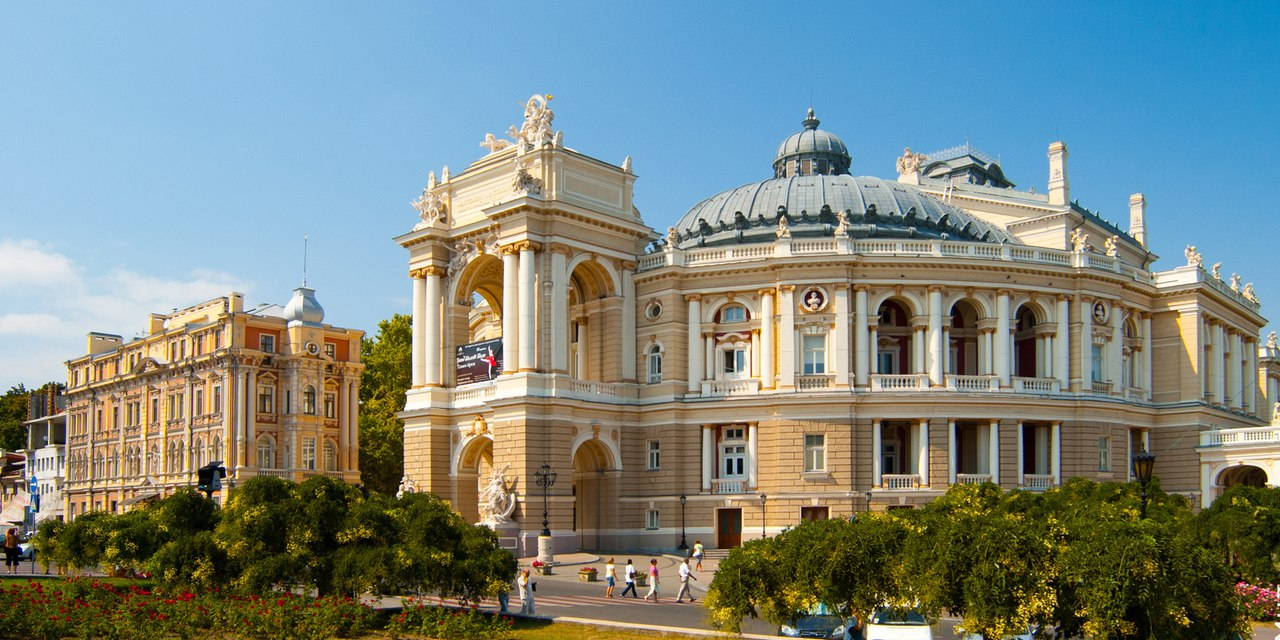
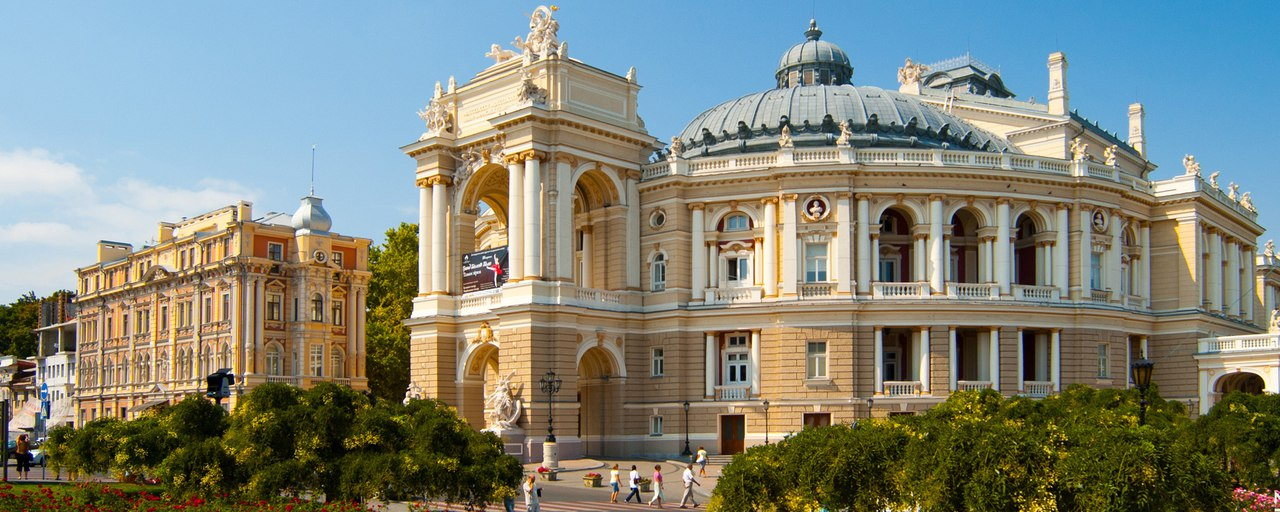
new photo

diff --git a/UBER PARTNER/build/css/style.css b/UBER PARTNER/build/css/style.css
@@ -1,1 +1,1 @@
-a,b,body,div,footer,form,header,html,iframe,img,li,p,section,span,ul{margin:0;padding:0;border:0;font-size:100%;font:inherit;vertical-align:baseline}footer,header,section{display:block}body{line-height:1}ul{list-style:none}html{font-size:16px;font-family:Open Sans,sans-serif}body{position:relative}.background-wrapper{position:absolute;background-image:url(../assets/img/taxi-fon.svg);background-repeat:repeat;z-index:-1;opacity:.2;width:100%;height:100%;top:0;left:0}section{padding:10px}p{font-size:1rem;text-align:justify;text-indent:1em;line-height:1.6;padding:10px 0}p span{color:#3d72a4;text-transform:uppercase;font-weight:700}.wrapper{margin:0 auto;max-width:1280px}.heading{max-width:90%;color:#0631af;font-family:Oswald,sans-serif;font-size:1.7rem;line-height:1.4;margin:0 auto;text-transform:uppercase;padding:10px 0}.button_container,.heading{text-align:center}.button{display:inline-block}.button a{box-sizing:border-box;display:block;text-transform:uppercase;padding:10px;font-size:1rem;text-align:center;text-decoration:none;-webkit-transition:all .6s ease;transition:all .6s ease}.button a:hover{cursor:pointer}.button_gold a{background-color:#6d87d6;color:#000}.button_gold a:hover{background-color:#000;color:#fff}input{box-sizing:border-box;height:40px;display:block;min-width:300px;max-width:500px;margin:10px auto;padding:0 20px;font-family:Open Sans,sans-serif;font-size:1rem;width:100%}input:active,input:focus{outline:none;border:2px solid #000}textarea{box-sizing:border-box;height:300px;display:block;min-width:300px;max-width:500px;margin:10px auto;resize:none;padding:20px;font-family:Open Sans,sans-serif;font-size:1rem;width:100%}textarea:active,textarea:focus{outline:none;border:2px solid #000}@media (min-width:480px){.heading{line-height:2.2}}.header_plug{height:48px;background-color:#fff}header{position:fixed;width:100%;z-index:1000}header .minified{display:-webkit-box;display:-ms-flexbox;display:flex;background-color:#f5f5f5}header .minified .logo_button{text-transform:uppercase;color:#3d72a4;font-size:3rem;font-weight:600}header .minified .menu_button{background-image:url(../assets/img/hamburgher_ico.svg);background-size:cover;height:48px;margin-left:auto;width:48px}header .minified .logo_button:hover,header .minified .menu_button:hover{cursor:pointer}header .maxified{position:absolute;left:0;top:48px;width:100%;height:0;overflow:hidden;-webkit-transition:all .6s ease;transition:all .6s ease;z-index:2000}header .maxified ul,header .maxified ul li{background-color:#fff}header .maxified ul li a{box-sizing:border-box;color:#000;display:block;height:100%;padding:15px;text-decoration:none;text-transform:uppercase;-webkit-transition:all .6s ease;transition:all .6s ease}header .maxified ul li a:hover{background-color:#3d72a4}header:hover .maxified{height:276px}@media (min-width:768px){header{display:-webkit-box;display:-ms-flexbox;display:flex;-ms-flex-wrap:nowrap;flex-wrap:nowrap;-webkit-box-pack:justify;-ms-flex-pack:justify;justify-content:space-between;background-color:#f5f5f5;width:100%;opacity:.6;-webkit-box-align:stretch;-ms-flex-align:stretch;align-items:stretch}header .minified{background:none}header .minified .menu_button{display:none}header .maxified{position:relative;margin:0 0 0 auto;top:auto;left:auto;height:auto;width:auto}header .maxified,header .maxified ul{display:-webkit-box;display:-ms-flexbox;display:flex}header .maxified ul{-ms-flex-wrap:nowrap;flex-wrap:nowrap;background:none;-webkit-box-align:stretch;-ms-flex-align:stretch;align-items:stretch}header .maxified ul li{background:none;height:100%}header .maxified ul li a{height:100%;display:-webkit-box;display:-ms-flexbox;display:flex;padding:0 10px;-webkit-box-pack:center;-ms-flex-pack:center;justify-content:center;-webkit-box-align:center;-ms-flex-align:center;align-items:center;-ms-flex-line-pack:center;align-content:center;font-size:.9rem;font-weight:700}header:hover{opacity:1}header:hover .maxified{height:auto}}.slider{padding:0;position:relative;z-index:100}.slider .slider_container{width:100%;position:relative;margin:0 auto}.slider .slider_container .slide{height:auto;padding-top:100vw;background-size:cover;position:relative}.slider .slider_container .slide .text_container{position:absolute;top:10%;width:100%;text-align:center}.slider .slider_container .slide p{display:inline-block;text-transform:uppercase;font-size:1.6rem;font-weight:700;color:#fff;text-align:center;text-shadow:1px 1px 2px #000;background-color:rgba(0,0,0,.4);text-indent:0;margin:0;line-height:1.2;padding:10px}.slider .slider_container .slide span{white-space:nowrap;color:#fff}.slider .slider_container .slide span.uber{color:#3d72a4}.slider .slider_container .slide .button_container{position:absolute;bottom:10%;width:100%}.slider .slider_container .slide .button_container .button a{border-radius:5px;border:1px solid #fff;padding:10px}.slider .slider_container .slide__1{background-image:url(../assets/img/slide_1_xs.jpg)}.slider .slider_container .slide__2{background-image:url(../assets/img/black-photo-xs.jpg)}.slider .slider_container .slide__3{background-image:url(../assets/img/odessa-3.jpg)}.slider .slider_container .slide__4{background-image:url(../assets/img/duk-xs.jpg)}@media (min-width:480px){.slider .slider_container .slide{height:auto;padding-top:60vw}.slider .slider_container .slide p{font-size:2.2rem}.slider .slider_container .slide__1{background-image:url(../assets/img/slide_1_sm.jpg)}.slider .slider_container .slide__2{background-image:url(../assets/img/black-photo-sm.jpg)}.slider .slider_container .slide__4{background-image:url(../assets/img/duk-sm.jpg)}}@media (min-width:768px){.slider .slider_container .slide{height:auto;padding-top:56.25vw;position:relative}.slider .slider_container .slide p{font-size:2.6rem;text-align:center;top:15%;left:0;text-indent:0}.slider .slider_container .slide p.connect{line-height:1.4;font-size:3rem}.slider .slider_container .slide .button_container .button a{border-radius:5px;border:1px solid #fff;font-weight:700;padding:15px}.slider .slider_container .slide__1{background-image:url(../assets/img/slide_1_md.jpg)}.slider .slider_container .slide__2{background-image:url(../assets/img/black-photo-md.jpg)}.slider .slider_container .slide__4{background-image:url(../assets/img/duk-md.jpg)}}@media (min-width:992px){.slider .slider_container .slide{height:auto;padding-top:50vw}.slider .slider_container .slide p,.slider .slider_container .slide p.connect{font-size:3.5rem}.slider .slider_container .slide__1{background-image:url(../assets/img/slide_1.jpg)}.slider .slider_container .slide__2{background-image:url(../assets/img/black-photo.jpg)}.slider .slider_container .slide__4{background-image:url(../assets/img/odessa4.jpg)}}.promo{border-bottom:2px solid #000;overflow:hidden}.promo b{font-weight:700}.promo img{width:100%;box-shadow:5px 5px 5px 0 rgba(0,0,0,.75);border-radius:5px}.promo .uber_1,.promo .uber_2{width:100%;margin:10px auto 0}@media (min-width:550px){.promo .uber_1,.promo .uber_2{float:left;width:350px;margin:10px 20px 0 0}}@media (min-width:970px){.promo{padding-bottom:40px}.promo .flex_container_2{display:-webkit-box;display:-ms-flexbox;display:flex;-ms-flex-pack:distribute;justify-content:space-around}.promo .uber_2{float:none;-ms-flex-negative:0;flex-shrink:0;margin-top:0}}@media (min-width:1080px){.promo .flex_container_1{display:-webkit-box;display:-ms-flexbox;display:flex;-ms-flex-pack:distribute;justify-content:space-around}.promo .uber_1{float:none;-ms-flex-negative:0;flex-shrink:0;margin-top:0}}.our_advantages{background-color:#f5f5f5;border-bottom:2px solid #000}.our_advantages .advantages_container{display:-webkit-box;display:-ms-flexbox;display:flex;-ms-flex-pack:distribute;justify-content:space-around;-ms-flex-wrap:wrap;flex-wrap:wrap;margin:10px 0}.our_advantages .advanages_container__item{border:3px solid #000;margin:10px 5px;padding:5px;box-sizing:border-box;width:230px;border-radius:10px;box-shadow:3px 3px 10px 0 rgba(0,0,0,.75),-3px -1px 5px 0 rgba(0,0,0,.75)}.our_advantages .advanages_container__item .advanages_container__item__image{padding-top:100%;background-color:bisque;background-color:#fff;display:-webkit-box;display:-ms-flexbox;display:flex;-webkit-box-pack:center;-ms-flex-pack:center;justify-content:center;-webkit-box-align:center;-ms-flex-align:center;align-items:center;position:relative;border-radius:10px;border:3px solid #000}.our_advantages .advanages_container__item .advanages_container__item__image .image{position:absolute;top:10%;left:10%;background-size:cover;width:80%;height:80%}.our_advantages .advanages_container__item .advanages_container__item__image .registration{background-image:url(../assets/img/documents.svg)}.our_advantages .advanages_container__item .advanages_container__item__image .cashless{background-image:url(../assets/img/credit_card.svg)}.our_advantages .advanages_container__item .advanages_container__item__image .time{background-image:url(../assets/img/time.svg)}.our_advantages .advanages_container__item .advanages_container__item__image .percent{background-image:url(../assets/img/percent.svg)}.our_advantages .advanages_container__item .advanages_container__item__image .fuel{background-image:url(../assets/img/fuel.svg);top:0;left:0;width:100%;height:100%}.our_advantages .advanages_container__item .advanages_container__item__image .uniqa{background-image:url(../assets/img/uniqa.svg)}.our_advantages .advanages_container__item .uniqa_container~p{text-align:left;text-indent:0}.our_advantages .advanages_container__item .advanages_container__item__heading{color:#0631af;font-weight:700;text-align:center;text-transform:uppercase;padding:10px 0}.our_advantages .advanages_container__item p{color:#000;padding:5px}@media (min-width:550px){.our_advantages .advanages_container__item .advanages_container__item__image{margin:20px auto 10px;width:80%;padding-top:80%}}@media (min-width:880px){.our_advantages .advanages_container__item{width:30%;max-width:280px}.our_advantages .advanages_container__item .advanages_container__item__image{width:60%;padding-top:60%}}@media (min-width:1130px){.our_advantages .advanages_container__item{margin:5px 20px}}.video{border-bottom:2px solid #000}.video .video_container{position:relative;padding-top:calc((100% - 20px) * .5625);margin:10px;width:calc(100% - 20px)}.video .video_container iframe{width:100%;height:100%;position:absolute;top:0;left:0}.requirements{background-color:#f5f5f5;border-bottom:1px solid transparent;padding:10px}.requirements .heading{color:#000}.requirements .heading span{color:#0631af}.requirements p{color:#000;max-width:800px;margin:0 auto}.requirements .button_container{margin:20px 0}.requirements .button_gold a{text-decoration:none;text-align:center;background-color:#6d87d6;background-image:-webkit-linear-gradient(top,#6d87d6,#2533cf);background-image:-ms-linear-gradient(top,#6d87d6 0,#2533cf 100%);filter:progid:DXImageTransform.Microsoft.gradient(startColorstr="#2533cf",endColorstr="#2533cf",GradientType=0);background-image:linear-gradient(top,#6d87d6,#2533cf)}.requirements .button_gold a,.requirements .button_gold a:hover{padding:11px 32px;border:3px solid #040072;border-radius:6px;font:13px Georgia,Times New Roman,Times,serif;font-weight:700;color:#fff;box-shadow:0 0 2px #bababa,inset 0 0 1px #fff}.requirements .button_gold a:hover{background-color:#2533cf;background-image:-webkit-linear-gradient(top,#2533cf,#6d87d6);background-image:-ms-linear-gradient(top,#2533cf 0,#6d87d6 100%);filter:progid:DXImageTransform.Microsoft.gradient(startColorstr="#6d87d6",endColorstr="#6d87d6",GradientType=0);background-image:linear-gradient(top,#2533cf,#6d87d6)}.requirements .button_gold a:active{padding:11px 32px;border:4px solid #040072;border-radius:6px;font:13px Georgia,Times New Roman,Times,serif;font-weight:700;color:#fff;background:#2533cf;box-shadow:0 0 2px #bababa,inset 0 0 1px #fff;text-shadow:0 3px 0 #bababa;-webkit-filter:dropshadow(color=#bababa,offx=0,offy=3);filter:dropshadow(color=#bababa,offx=0,offy=3)}.requirements ul{list-style:disc outside;padding-left:15px;max-width:800px;margin:0 auto}.requirements ul li{color:#3d72a4}.requirements ul li p{padding:5px 0;text-indent:0;max-width:none}.easy{border-bottom:2px solid #000;border-top:2px solid #000}.easy .easy_container{display:-webkit-box;display:-ms-flexbox;display:flex;-ms-flex-pack:distribute;justify-content:space-around;-ms-flex-wrap:wrap;flex-wrap:wrap;margin:10px 0}.easy .easy_container .easy_container__item{background-color:#fff;max-width:320px;padding:20px;margin:10px;border:3px solid #000;border-radius:15px}.easy .easy_container .easy_container__item__image{width:60%;padding-top:60%;margin:0 auto;position:relative;border:3px solid #000;border-radius:15px;box-sizing:border-box}.easy .easy_container .easy_container__item__heading{color:#3d72a4;font-size:1.2rem;text-transform:uppercase;padding:10px 0;text-align:center;font-weight:700}.easy .easy_container .meeting{background-image:url(../assets/img/meeting.svg);background-size:cover;height:80%;width:80%;top:10%;left:10%;position:absolute}.easy .easy_container .form{background-image:url(../assets/img/form.svg);background-size:cover;height:100%;width:100%;top:0;left:0;position:absolute}.easy .easy_container .mail{background-image:url(../assets/img/mail.svg);background-size:cover;height:80%;width:80%;top:10%;left:10%;position:absolute}.easy .easy_container p{color:#000;min-height:90px;text-align:left}.easy .easy_container .button_container{margin:10px 0}.easy .easy_container .button_gold a{text-decoration:none;text-align:center;padding:7px 10px;border:3px solid #000969;border-radius:10px;font:14px Arial,Helvetica,sans-serif;font-weight:700;color:#fff;background-color:#6d87d6;background-image:-webkit-linear-gradient(top,#6d87d6,#192aa5);background-image:-ms-linear-gradient(top,#6d87d6 0,#192aa5 100%);filter:progid:DXImageTransform.Microsoft.gradient(startColorstr="#192aa5",endColorstr="#192aa5",GradientType=0);background-image:linear-gradient(top,#6d87d6,#192aa5);box-shadow:0 0 2px #bababa;text-shadow:0 0 2px #bababa;-webkit-filter:dropshadow(color=#bababa,offx=0,offy=0);filter:dropshadow(color=#bababa,offx=0,offy=0)}@media (min-width:480px){.easy .easy_container .easy_container__item{margin:10px 50px}.easy .easy_container .easy_container__item .easy_container__item__image{width:80%;padding-top:80%}}@media (min-width:865px){.easy .easy_container .easy_container__item{margin:5px;width:28%;min-width:250px;box-sizing:border-box}.easy .easy_container .easy_container__item .easy_container__item__image{width:70%;padding-top:70%}}.queue{border-bottom:2px solid #000;background-color:#f5f5f5}.queue .button_gold a{text-decoration:none;text-align:center;border:3px solid #004f72;border-radius:10px;background-color:#6d87d6;background-image:-webkit-linear-gradient(top,#6d87d6,#3053ff);background-image:-ms-linear-gradient(top,#6d87d6 0,#3053ff 100%);filter:progid:DXImageTransform.Microsoft.gradient(startColorstr="#3053ff",endColorstr="#3053ff",GradientType=0);background-image:linear-gradient(top,#6d87d6,#3053ff)}.queue .button_gold:hover a,.queue .button_gold a{padding:11px 32px;font:12px Arial,Helvetica,sans-serif;font-weight:700;color:#fff;box-shadow:0 0 2px #bababa,inset 0 0 1px #fff}.queue .button_gold:hover a{border:3px solid #005072;border-radius:10px;background-color:#3053ff;background-image:-webkit-linear-gradient(top,#3053ff,#6d87d6);background-image:-ms-linear-gradient(top,#3053ff 0,#6d87d6 100%);filter:progid:DXImageTransform.Microsoft.gradient(startColorstr="#6d87d6",endColorstr="#6d87d6",GradientType=0);background-image:linear-gradient(top,#3053ff,#6d87d6)}.queue .button_gold:active a{padding:11px 32px;border:3px solid #005072;border-radius:10px;font:14px Arial,Helvetica,sans-serif;font-weight:700;color:#fff;background-color:#2a54d1;background-image:-webkit-linear-gradient(top,#2a54d1,#001eb3);background-image:-ms-linear-gradient(top,#2a54d1 0,#001eb3 100%);filter:progid:DXImageTransform.Microsoft.gradient(startColorstr="#001eb3",endColorstr="#001eb3",GradientType=0);background-image:linear-gradient(top,#2a54d1,#001eb3);box-shadow:0 0 2px #bababa,inset 0 0 1px #fff}.faq{background-color:transparent;border-bottom:2px solid #000}.faq .questions_container{display:-webkit-box;display:-ms-flexbox;display:flex;-ms-flex-pack:distribute;justify-content:space-around;-ms-flex-wrap:wrap;flex-wrap:wrap;margin:10px 0}.faq .questions_container .question{width:30%;min-width:280px;margin:10px;border:1px solid #000;background-color:#fff}.faq .questions_container .question .question_header{padding:10px;display:-webkit-box;display:-ms-flexbox;display:flex;-webkit-box-align:center;-ms-flex-align:center;align-items:center;background-color:#000;color:#fff}.faq .questions_container .question .question_header p{text-align:center}.faq .questions_container .question .question_body{padding:10px;display:-webkit-box;display:-ms-flexbox;display:flex;-webkit-box-align:center;-ms-flex-align:center;align-items:center}.download{border-bottom:2px solid #000}.download .download_button_container{margin:20px auto;display:-webkit-box;display:-ms-flexbox;display:flex;-ms-flex-pack:distribute;justify-content:space-around}.download .download_button_container .download_button_container__item{width:30%;min-width:150px;margin:0 5px}.download .download_button_container .download_button_container__item .image{width:100%;padding-top:32.6%;position:relative}.download .download_button_container .download_button_container__item .image .android{position:absolute;top:0;left:0;width:100%;height:100%;background-image:url(../assets/img/google_play_badge.svg);background-size:cover}.download .download_button_container .download_button_container__item .image .iphone{position:absolute;top:0;left:0;width:100%;height:100%;background-image:url(../assets/img/app_store_badge.svg);background-size:cover}.address{background-color:#fff;padding-bottom:25px}.address .small_heading{text-align:center;padding-top:0;text-indent:0;font-size:.9rem}.address .small_heading b{font-weight:700}.address .map{width:100%;height:80vh}@media (min-width:360px){.address .small_heading{font-size:1rem}}@media (min-width:420px){.address .small_heading{font-size:1.2rem}}@media (min-width:480px){.address .small_heading{font-size:1.2rem}}@media (min-width:768px){.address .map{height:60vh}}footer{background-color:#3d72a4}footer .footer_container{display:-webkit-box;display:-ms-flexbox;display:flex;-webkit-box-orient:vertical;-webkit-box-direction:normal;-ms-flex-direction:column;flex-direction:column;padding:10px}footer .footer_container .contacts_container{width:100%}footer .footer_container .contacts_container .heading{color:#000}footer .footer_container .contacts{min-width:300px;max-width:500px;width:100%;margin:0 auto}footer .footer_container .contacts li{margin:10px 0}footer .footer_container .contacts li a{display:-webkit-box;display:-ms-flexbox;display:flex;-webkit-box-pack:start;-ms-flex-pack:start;justify-content:flex-start;-webkit-box-align:center;-ms-flex-align:center;align-items:center;text-decoration:none}footer .footer_container .contacts li a .image{height:30px;width:30px;background-image:url(../assets/img/skype.svg);background-size:cover}footer .footer_container .contacts li a p{color:#000;padding:0 0 0 1em;text-indent:0}footer .footer_container .contacts li a:hover{cursor:pointer}footer .footer_container .contacts li a:hover p{color:#fff}footer .footer_container .queue_form{width:100%}footer .footer_container .queue_form .heading{color:#000}footer .footer_container .queue_form .button_gold a{text-decoration:none;text-align:center;padding:7px 10px;border:3px solid #000969;border-radius:10px;font:14px Arial,Helvetica,sans-serif;font-weight:700;color:#fff;background-color:#6d87d6;background-image:-webkit-linear-gradient(top,#6d87d6,#192aa5);background-image:-ms-linear-gradient(top,#6d87d6 0,#192aa5 100%);filter:progid:DXImageTransform.Microsoft.gradient(startColorstr="#192aa5",endColorstr="#192aa5",GradientType=0);background-image:linear-gradient(top,#6d87d6,#192aa5);box-shadow:0 0 2px #bababa;text-shadow:0 0 2px #bababa;-webkit-filter:dropshadow(color=#bababa,offx=0,offy=0);filter:dropshadow(color=#bababa,offx=0,offy=0)}@media (min-width:768px){footer .footer_container{-webkit-box-orient:horizontal;-webkit-box-direction:normal;-ms-flex-direction:row;flex-direction:row;-ms-flex-pack:distribute;justify-content:space-around}}
+a,b,body,div,footer,form,header,html,iframe,img,li,p,section,span,ul{margin:0;padding:0;border:0;font-size:100%;font:inherit;vertical-align:baseline}footer,header,section{display:block}body{line-height:1}ul{list-style:none}html{font-size:16px;font-family:Open Sans,sans-serif}body{position:relative}.background-wrapper{position:absolute;background-image:url(../assets/img/taxi-fon.svg);background-repeat:repeat;z-index:-1;opacity:.2;width:100%;height:100%;top:0;left:0}section{padding:10px}p{font-size:1rem;text-align:justify;text-indent:1em;line-height:1.6;padding:10px 0}p span{color:#3d72a4;text-transform:uppercase;font-weight:700}.wrapper{margin:0 auto;max-width:1280px}.heading{max-width:90%;color:#0631af;font-family:Oswald,sans-serif;font-size:1.7rem;line-height:1.4;margin:0 auto;text-transform:uppercase;padding:10px 0}.button_container,.heading{text-align:center}.button{display:inline-block}.button a{box-sizing:border-box;display:block;text-transform:uppercase;padding:10px;font-size:1rem;text-align:center;text-decoration:none;-webkit-transition:all .6s ease;transition:all .6s ease}.button a:hover{cursor:pointer}.button_gold a{background-color:#6d87d6;color:#000}.button_gold a:hover{background-color:#000;color:#fff}input{box-sizing:border-box;height:40px;display:block;min-width:300px;max-width:500px;margin:10px auto;padding:0 20px;font-family:Open Sans,sans-serif;font-size:1rem;width:100%}input:active,input:focus{outline:none;border:2px solid #000}textarea{box-sizing:border-box;height:300px;display:block;min-width:300px;max-width:500px;margin:10px auto;resize:none;padding:20px;font-family:Open Sans,sans-serif;font-size:1rem;width:100%}textarea:active,textarea:focus{outline:none;border:2px solid #000}@media (min-width:480px){.heading{line-height:2.2}}.header_plug{height:48px;background-color:#fff}header{position:fixed;width:100%;z-index:1000}header .minified{display:-webkit-box;display:-ms-flexbox;display:flex;background-color:#f5f5f5}header .minified .logo_button{text-transform:uppercase;color:#3d72a4;font-size:3rem;font-weight:600}header .minified .menu_button{background-image:url(../assets/img/hamburgher_ico.svg);background-size:cover;height:48px;margin-left:auto;width:48px}header .minified .logo_button:hover,header .minified .menu_button:hover{cursor:pointer}header .maxified{position:absolute;left:0;top:48px;width:100%;height:0;overflow:hidden;-webkit-transition:all .6s ease;transition:all .6s ease;z-index:2000}header .maxified ul,header .maxified ul li{background-color:#fff}header .maxified ul li a{box-sizing:border-box;color:#000;display:block;height:100%;padding:15px;text-decoration:none;text-transform:uppercase;-webkit-transition:all .6s ease;transition:all .6s ease}header .maxified ul li a:hover{background-color:#3d72a4}header:hover .maxified{height:276px}@media (min-width:768px){header{display:-webkit-box;display:-ms-flexbox;display:flex;-ms-flex-wrap:nowrap;flex-wrap:nowrap;-webkit-box-pack:justify;-ms-flex-pack:justify;justify-content:space-between;background-color:#f5f5f5;width:100%;opacity:.6;-webkit-box-align:stretch;-ms-flex-align:stretch;align-items:stretch}header .minified{background:none}header .minified .menu_button{display:none}header .maxified{position:relative;margin:0 0 0 auto;top:auto;left:auto;height:auto;width:auto}header .maxified,header .maxified ul{display:-webkit-box;display:-ms-flexbox;display:flex}header .maxified ul{-ms-flex-wrap:nowrap;flex-wrap:nowrap;background:none;-webkit-box-align:stretch;-ms-flex-align:stretch;align-items:stretch}header .maxified ul li{background:none;height:100%}header .maxified ul li a{height:100%;display:-webkit-box;display:-ms-flexbox;display:flex;padding:0 10px;-webkit-box-pack:center;-ms-flex-pack:center;justify-content:center;-webkit-box-align:center;-ms-flex-align:center;align-items:center;-ms-flex-line-pack:center;align-content:center;font-size:.9rem;font-weight:700}header:hover{opacity:1}header:hover .maxified{height:auto}}.slider{padding:0;position:relative;z-index:100}.slider .slider_container{width:100%;position:relative;margin:0 auto}.slider .slider_container .slide{height:auto;padding-top:100vw;background-size:cover;position:relative}.slider .slider_container .slide .text_container{position:absolute;top:10%;width:100%;text-align:center}.slider .slider_container .slide p{display:inline-block;text-transform:uppercase;font-size:1.6rem;font-weight:700;color:#fff;text-align:center;text-shadow:1px 1px 2px #000;background-color:rgba(0,0,0,.4);text-indent:0;margin:0;line-height:1.2;padding:10px}.slider .slider_container .slide span{white-space:nowrap;color:#fff}.slider .slider_container .slide span.uber{color:#3d72a4}.slider .slider_container .slide .button_container{position:absolute;bottom:10%;width:100%}.slider .slider_container .slide .button_container .button a{border-radius:5px;border:1px solid #fff;padding:10px}.slider .slider_container .slide__1{background-image:url(../assets/img/slide_1_xs.jpg)}.slider .slider_container .slide__2{background-image:url(../assets/img/black-photo-xs.jpg)}.slider .slider_container .slide__3{background-image:url(../assets/img/odessa-3.jpg)}.slider .slider_container .slide__4{background-image:url(../assets/img/duk-xs.jpg)}@media (min-width:480px){.slider .slider_container .slide{height:auto;padding-top:60vw}.slider .slider_container .slide p{font-size:2.2rem}.slider .slider_container .slide__1{background-image:url(../assets/img/slide_1_sm.jpg)}.slider .slider_container .slide__2{background-image:url(../assets/img/black-photo-sm.jpg)}.slider .slider_container .slide__4{background-image:url(../assets/img/duk-sm.jpg)}}@media (min-width:768px){.slider .slider_container .slide{height:auto;padding-top:56.25vw;position:relative}.slider .slider_container .slide p{font-size:2.6rem;text-align:center;top:15%;left:0;text-indent:0}.slider .slider_container .slide p.connect{line-height:1.4;font-size:3rem}.slider .slider_container .slide .button_container .button a{border-radius:5px;border:1px solid #fff;font-weight:700;padding:15px}.slider .slider_container .slide__1{background-image:url(../assets/img/slide_1_md.jpg)}.slider .slider_container .slide__2{background-image:url(../assets/img/black-photo-md.jpg)}.slider .slider_container .slide__4{background-image:url(../assets/img/duk-md.jpg)}}@media (min-width:992px){.slider .slider_container .slide{height:auto;padding-top:40vw}.slider .slider_container .slide p,.slider .slider_container .slide p.connect{font-size:3.5rem}.slider .slider_container .slide__1{background-image:url(../assets/img/slide_1.jpg)}.slider .slider_container .slide__2{background-image:url(../assets/img/black-photo.jpg)}.slider .slider_container .slide__4{background-image:url(../assets/img/odessa4.jpg)}}.promo{border-bottom:2px solid #000;overflow:hidden}.promo b{font-weight:700}.promo img{width:100%;box-shadow:5px 5px 5px 0 rgba(0,0,0,.75);border-radius:5px}.promo .uber_1,.promo .uber_2{width:100%;margin:10px auto 0}@media (min-width:550px){.promo .uber_1,.promo .uber_2{float:left;width:350px;margin:10px 20px 0 0}}@media (min-width:970px){.promo{padding-bottom:40px}.promo .flex_container_2{display:-webkit-box;display:-ms-flexbox;display:flex;-ms-flex-pack:distribute;justify-content:space-around}.promo .uber_2{float:none;-ms-flex-negative:0;flex-shrink:0;margin-top:0}}@media (min-width:1080px){.promo .flex_container_1{display:-webkit-box;display:-ms-flexbox;display:flex;-ms-flex-pack:distribute;justify-content:space-around}.promo .uber_1{float:none;-ms-flex-negative:0;flex-shrink:0;margin-top:0}}.our_advantages{background-color:#f5f5f5;border-bottom:2px solid #000}.our_advantages .advantages_container{display:-webkit-box;display:-ms-flexbox;display:flex;-ms-flex-pack:distribute;justify-content:space-around;-ms-flex-wrap:wrap;flex-wrap:wrap;margin:10px 0}.our_advantages .advanages_container__item{border:3px solid #000;margin:10px 5px;padding:5px;box-sizing:border-box;width:230px;border-radius:10px;box-shadow:3px 3px 10px 0 rgba(0,0,0,.75),-3px -1px 5px 0 rgba(0,0,0,.75)}.our_advantages .advanages_container__item .advanages_container__item__image{padding-top:100%;background-color:bisque;background-color:#fff;display:-webkit-box;display:-ms-flexbox;display:flex;-webkit-box-pack:center;-ms-flex-pack:center;justify-content:center;-webkit-box-align:center;-ms-flex-align:center;align-items:center;position:relative;border-radius:10px;border:3px solid #000}.our_advantages .advanages_container__item .advanages_container__item__image .image{position:absolute;top:10%;left:10%;background-size:cover;width:80%;height:80%}.our_advantages .advanages_container__item .advanages_container__item__image .registration{background-image:url(../assets/img/documents.svg)}.our_advantages .advanages_container__item .advanages_container__item__image .cashless{background-image:url(../assets/img/credit_card.svg)}.our_advantages .advanages_container__item .advanages_container__item__image .time{background-image:url(../assets/img/time.svg)}.our_advantages .advanages_container__item .advanages_container__item__image .percent{background-image:url(../assets/img/percent.svg)}.our_advantages .advanages_container__item .advanages_container__item__image .fuel{background-image:url(../assets/img/fuel.svg);top:0;left:0;width:100%;height:100%}.our_advantages .advanages_container__item .advanages_container__item__image .uniqa{background-image:url(../assets/img/uniqa.svg)}.our_advantages .advanages_container__item .uniqa_container~p{text-align:left;text-indent:0}.our_advantages .advanages_container__item .advanages_container__item__heading{color:#0631af;font-weight:700;text-align:center;text-transform:uppercase;padding:10px 0}.our_advantages .advanages_container__item p{color:#000;padding:5px}@media (min-width:550px){.our_advantages .advanages_container__item .advanages_container__item__image{margin:20px auto 10px;width:80%;padding-top:80%}}@media (min-width:880px){.our_advantages .advanages_container__item{width:30%;max-width:280px}.our_advantages .advanages_container__item .advanages_container__item__image{width:60%;padding-top:60%}}@media (min-width:1130px){.our_advantages .advanages_container__item{margin:5px 20px}}.video{border-bottom:2px solid #000}.video .video_container{position:relative;padding-top:calc((100% - 20px) * .5625);margin:10px;width:calc(100% - 20px)}.video .video_container iframe{width:100%;height:100%;position:absolute;top:0;left:0}.requirements{background-color:#f5f5f5;border-bottom:1px solid transparent;padding:10px}.requirements .heading{color:#000}.requirements .heading span{color:#0631af}.requirements p{color:#000;max-width:800px;margin:0 auto}.requirements .button_container{margin:20px 0}.requirements .button_gold a{text-decoration:none;text-align:center;background-color:#6d87d6;background-image:-webkit-linear-gradient(top,#6d87d6,#2533cf);background-image:-ms-linear-gradient(top,#6d87d6 0,#2533cf 100%);filter:progid:DXImageTransform.Microsoft.gradient(startColorstr="#2533cf",endColorstr="#2533cf",GradientType=0);background-image:linear-gradient(top,#6d87d6,#2533cf)}.requirements .button_gold a,.requirements .button_gold a:hover{padding:11px 32px;border:3px solid #040072;border-radius:6px;font:13px Georgia,Times New Roman,Times,serif;font-weight:700;color:#fff;box-shadow:0 0 2px #bababa,inset 0 0 1px #fff}.requirements .button_gold a:hover{background-color:#2533cf;background-image:-webkit-linear-gradient(top,#2533cf,#6d87d6);background-image:-ms-linear-gradient(top,#2533cf 0,#6d87d6 100%);filter:progid:DXImageTransform.Microsoft.gradient(startColorstr="#6d87d6",endColorstr="#6d87d6",GradientType=0);background-image:linear-gradient(top,#2533cf,#6d87d6)}.requirements .button_gold a:active{padding:11px 32px;border:4px solid #040072;border-radius:6px;font:13px Georgia,Times New Roman,Times,serif;font-weight:700;color:#fff;background:#2533cf;box-shadow:0 0 2px #bababa,inset 0 0 1px #fff;text-shadow:0 3px 0 #bababa;-webkit-filter:dropshadow(color=#bababa,offx=0,offy=3);filter:dropshadow(color=#bababa,offx=0,offy=3)}.requirements ul{list-style:disc outside;padding-left:15px;max-width:800px;margin:0 auto}.requirements ul li{color:#3d72a4}.requirements ul li p{padding:5px 0;text-indent:0;max-width:none}.easy{border-bottom:2px solid #000;border-top:2px solid #000}.easy .easy_container{display:-webkit-box;display:-ms-flexbox;display:flex;-ms-flex-pack:distribute;justify-content:space-around;-ms-flex-wrap:wrap;flex-wrap:wrap;margin:10px 0}.easy .easy_container .easy_container__item{background-color:#fff;max-width:320px;padding:20px;margin:10px;border:3px solid #000;border-radius:15px}.easy .easy_container .easy_container__item__image{width:60%;padding-top:60%;margin:0 auto;position:relative;border:3px solid #000;border-radius:15px;box-sizing:border-box}.easy .easy_container .easy_container__item__heading{color:#3d72a4;font-size:1.2rem;text-transform:uppercase;padding:10px 0;text-align:center;font-weight:700}.easy .easy_container .meeting{background-image:url(../assets/img/meeting.svg);background-size:cover;height:80%;width:80%;top:10%;left:10%;position:absolute}.easy .easy_container .form{background-image:url(../assets/img/form.svg);background-size:cover;height:100%;width:100%;top:0;left:0;position:absolute}.easy .easy_container .mail{background-image:url(../assets/img/mail.svg);background-size:cover;height:80%;width:80%;top:10%;left:10%;position:absolute}.easy .easy_container p{color:#000;min-height:90px;text-align:left}.easy .easy_container .button_container{margin:10px 0}.easy .easy_container .button_gold a{text-decoration:none;text-align:center;padding:7px 10px;border:3px solid #000969;border-radius:10px;font:14px Arial,Helvetica,sans-serif;font-weight:700;color:#fff;background-color:#6d87d6;background-image:-webkit-linear-gradient(top,#6d87d6,#192aa5);background-image:-ms-linear-gradient(top,#6d87d6 0,#192aa5 100%);filter:progid:DXImageTransform.Microsoft.gradient(startColorstr="#192aa5",endColorstr="#192aa5",GradientType=0);background-image:linear-gradient(top,#6d87d6,#192aa5);box-shadow:0 0 2px #bababa;text-shadow:0 0 2px #bababa;-webkit-filter:dropshadow(color=#bababa,offx=0,offy=0);filter:dropshadow(color=#bababa,offx=0,offy=0)}@media (min-width:480px){.easy .easy_container .easy_container__item{margin:10px 50px}.easy .easy_container .easy_container__item .easy_container__item__image{width:80%;padding-top:80%}}@media (min-width:865px){.easy .easy_container .easy_container__item{margin:5px;width:28%;min-width:250px;box-sizing:border-box}.easy .easy_container .easy_container__item .easy_container__item__image{width:70%;padding-top:70%}}.queue{border-bottom:2px solid #000;background-color:#f5f5f5}.queue .button_gold a{text-decoration:none;text-align:center;border:3px solid #004f72;border-radius:10px;background-color:#6d87d6;background-image:-webkit-linear-gradient(top,#6d87d6,#3053ff);background-image:-ms-linear-gradient(top,#6d87d6 0,#3053ff 100%);filter:progid:DXImageTransform.Microsoft.gradient(startColorstr="#3053ff",endColorstr="#3053ff",GradientType=0);background-image:linear-gradient(top,#6d87d6,#3053ff)}.queue .button_gold:hover a,.queue .button_gold a{padding:11px 32px;font:12px Arial,Helvetica,sans-serif;font-weight:700;color:#fff;box-shadow:0 0 2px #bababa,inset 0 0 1px #fff}.queue .button_gold:hover a{border:3px solid #005072;border-radius:10px;background-color:#3053ff;background-image:-webkit-linear-gradient(top,#3053ff,#6d87d6);background-image:-ms-linear-gradient(top,#3053ff 0,#6d87d6 100%);filter:progid:DXImageTransform.Microsoft.gradient(startColorstr="#6d87d6",endColorstr="#6d87d6",GradientType=0);background-image:linear-gradient(top,#3053ff,#6d87d6)}.queue .button_gold:active a{padding:11px 32px;border:3px solid #005072;border-radius:10px;font:14px Arial,Helvetica,sans-serif;font-weight:700;color:#fff;background-color:#2a54d1;background-image:-webkit-linear-gradient(top,#2a54d1,#001eb3);background-image:-ms-linear-gradient(top,#2a54d1 0,#001eb3 100%);filter:progid:DXImageTransform.Microsoft.gradient(startColorstr="#001eb3",endColorstr="#001eb3",GradientType=0);background-image:linear-gradient(top,#2a54d1,#001eb3);box-shadow:0 0 2px #bababa,inset 0 0 1px #fff}.faq{background-color:transparent;border-bottom:2px solid #000}.faq .questions_container{display:-webkit-box;display:-ms-flexbox;display:flex;-ms-flex-pack:distribute;justify-content:space-around;-ms-flex-wrap:wrap;flex-wrap:wrap;margin:10px 0}.faq .questions_container .question{width:30%;min-width:280px;margin:10px;border:1px solid #000;background-color:#fff}.faq .questions_container .question .question_header{padding:10px;display:-webkit-box;display:-ms-flexbox;display:flex;-webkit-box-align:center;-ms-flex-align:center;align-items:center;background-color:#000;color:#fff}.faq .questions_container .question .question_header p{text-align:center}.faq .questions_container .question .question_body{padding:10px;display:-webkit-box;display:-ms-flexbox;display:flex;-webkit-box-align:center;-ms-flex-align:center;align-items:center}.download{border-bottom:2px solid #000}.download .download_button_container{margin:20px auto;display:-webkit-box;display:-ms-flexbox;display:flex;-ms-flex-pack:distribute;justify-content:space-around}.download .download_button_container .download_button_container__item{width:30%;min-width:150px;margin:0 5px}.download .download_button_container .download_button_container__item .image{width:100%;padding-top:32.6%;position:relative}.download .download_button_container .download_button_container__item .image .android{position:absolute;top:0;left:0;width:100%;height:100%;background-image:url(../assets/img/google_play_badge.svg);background-size:cover}.download .download_button_container .download_button_container__item .image .iphone{position:absolute;top:0;left:0;width:100%;height:100%;background-image:url(../assets/img/app_store_badge.svg);background-size:cover}.address{background-color:#fff;padding-bottom:25px}.address .small_heading{text-align:center;padding-top:0;text-indent:0;font-size:.9rem}.address .small_heading b{font-weight:700}.address .map{width:100%;height:80vh}@media (min-width:360px){.address .small_heading{font-size:1rem}}@media (min-width:420px){.address .small_heading{font-size:1.2rem}}@media (min-width:480px){.address .small_heading{font-size:1.2rem}}@media (min-width:768px){.address .map{height:60vh}}footer{background-color:#3d72a4}footer .footer_container{display:-webkit-box;display:-ms-flexbox;display:flex;-webkit-box-orient:vertical;-webkit-box-direction:normal;-ms-flex-direction:column;flex-direction:column;padding:10px}footer .footer_container .contacts_container{width:100%}footer .footer_container .contacts_container .heading{color:#000}footer .footer_container .contacts{min-width:300px;max-width:500px;width:100%;margin:0 auto}footer .footer_container .contacts li{margin:10px 0}footer .footer_container .contacts li a{display:-webkit-box;display:-ms-flexbox;display:flex;-webkit-box-pack:start;-ms-flex-pack:start;justify-content:flex-start;-webkit-box-align:center;-ms-flex-align:center;align-items:center;text-decoration:none}footer .footer_container .contacts li a .image{height:30px;width:30px;background-image:url(../assets/img/skype.svg);background-size:cover}footer .footer_container .contacts li a p{color:#000;padding:0 0 0 1em;text-indent:0}footer .footer_container .contacts li a:hover{cursor:pointer}footer .footer_container .contacts li a:hover p{color:#fff}footer .footer_container .queue_form{width:100%}footer .footer_container .queue_form .heading{color:#000}footer .footer_container .queue_form .button_gold a{text-decoration:none;text-align:center;padding:7px 10px;border:3px solid #000969;border-radius:10px;font:14px Arial,Helvetica,sans-serif;font-weight:700;color:#fff;background-color:#6d87d6;background-image:-webkit-linear-gradient(top,#6d87d6,#192aa5);background-image:-ms-linear-gradient(top,#6d87d6 0,#192aa5 100%);filter:progid:DXImageTransform.Microsoft.gradient(startColorstr="#192aa5",endColorstr="#192aa5",GradientType=0);background-image:linear-gradient(top,#6d87d6,#192aa5);box-shadow:0 0 2px #bababa;text-shadow:0 0 2px #bababa;-webkit-filter:dropshadow(color=#bababa,offx=0,offy=0);filter:dropshadow(color=#bababa,offx=0,offy=0)}@media (min-width:768px){footer .footer_container{-webkit-box-orient:horizontal;-webkit-box-direction:normal;-ms-flex-direction:row;flex-direction:row;-ms-flex-pack:distribute;justify-content:space-around}}

diff --git a/UBER PARTNER/src/css/templates/slider.scss b/UBER PARTNER/src/css/templates/slider.scss
@@ -136,7 +136,7 @@
         .slider_container {
             .slide {
                 height: auto;
-                padding-top: calc(0.5 * 100vw);
+                padding-top: calc(0.4 * 100vw);
                 p {
                     font-size: 3.5rem;
 
